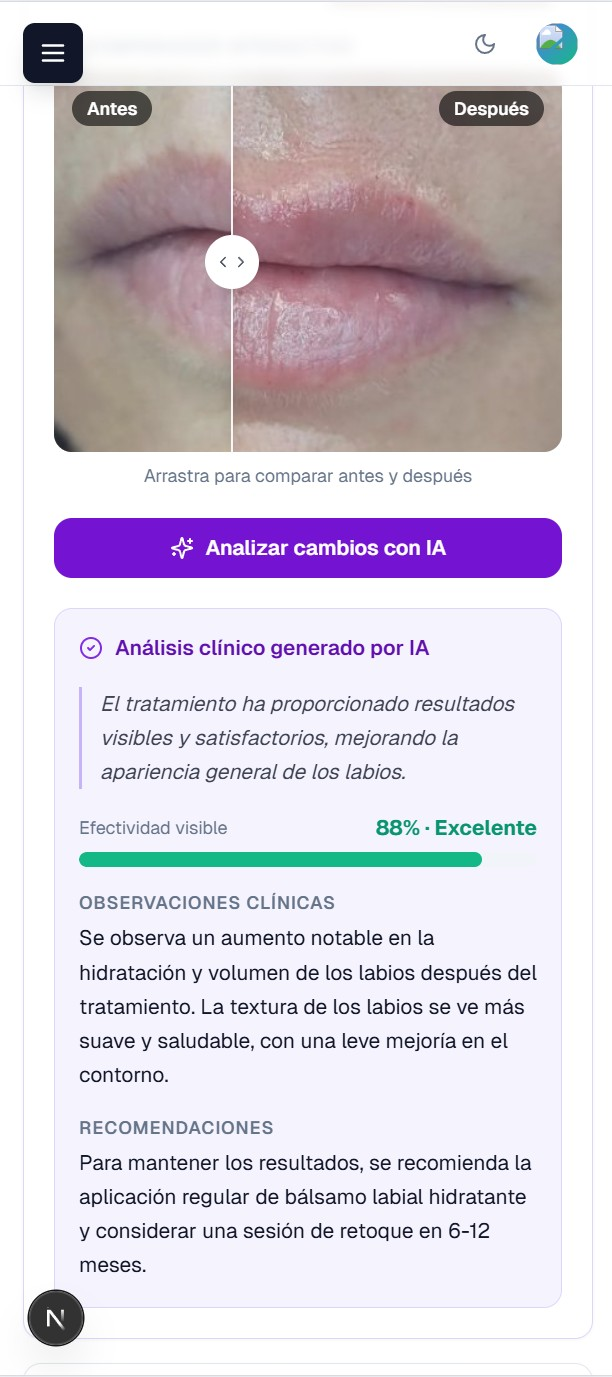
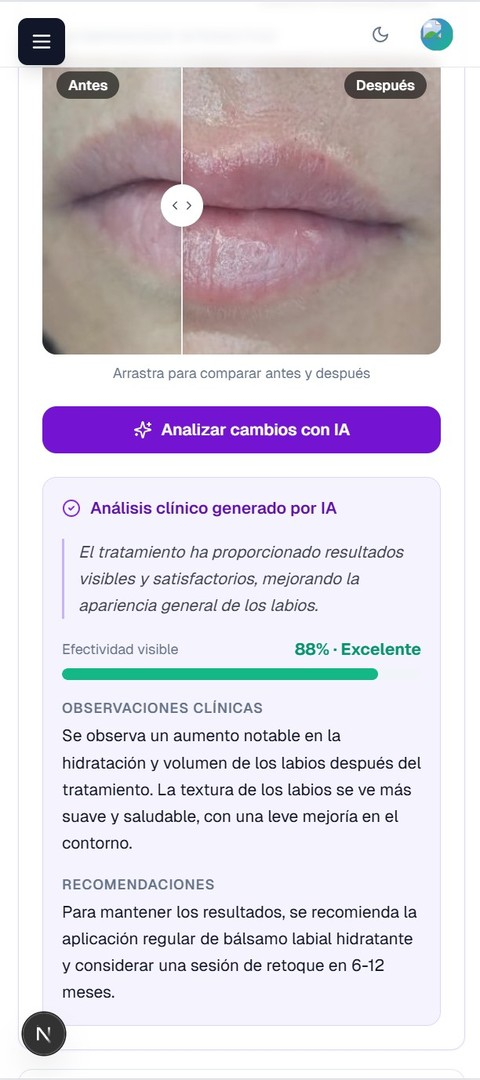
docs: update clinical AI analysis screenshot and improve image rendering in README

diff --git a/README.md b/README.md
@@ -405,7 +405,8 @@ scripts/
 *Formulario intuitivo para agendar citas*
 
 ### Análisis Clínico con IA
-![Análisis Clínico IA](./docs/screenshots/analisis_clinico_ia.jpg)
+<img src="./docs/screenshots/analisis_clinico_ia.jpg" alt="Análisis Clínico IA" width="100%" />
+
 *Análisis fotográfico automatizado con score de efectividad y recomendaciones generado por GPT-4o Vision*
 
 ### Asistente IA en Acción
